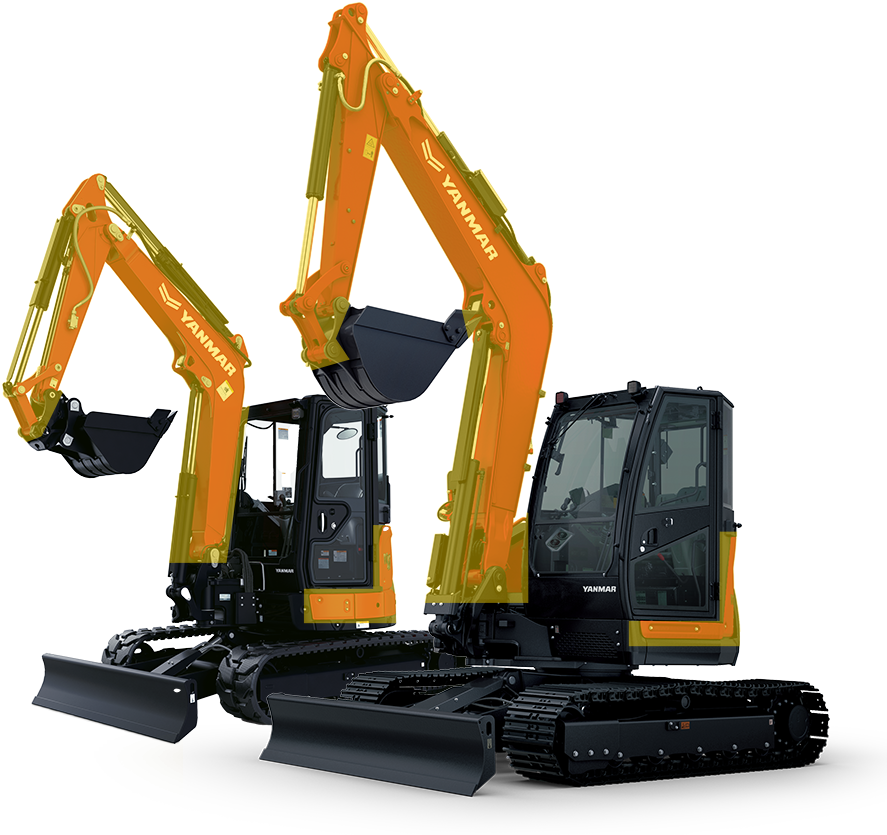
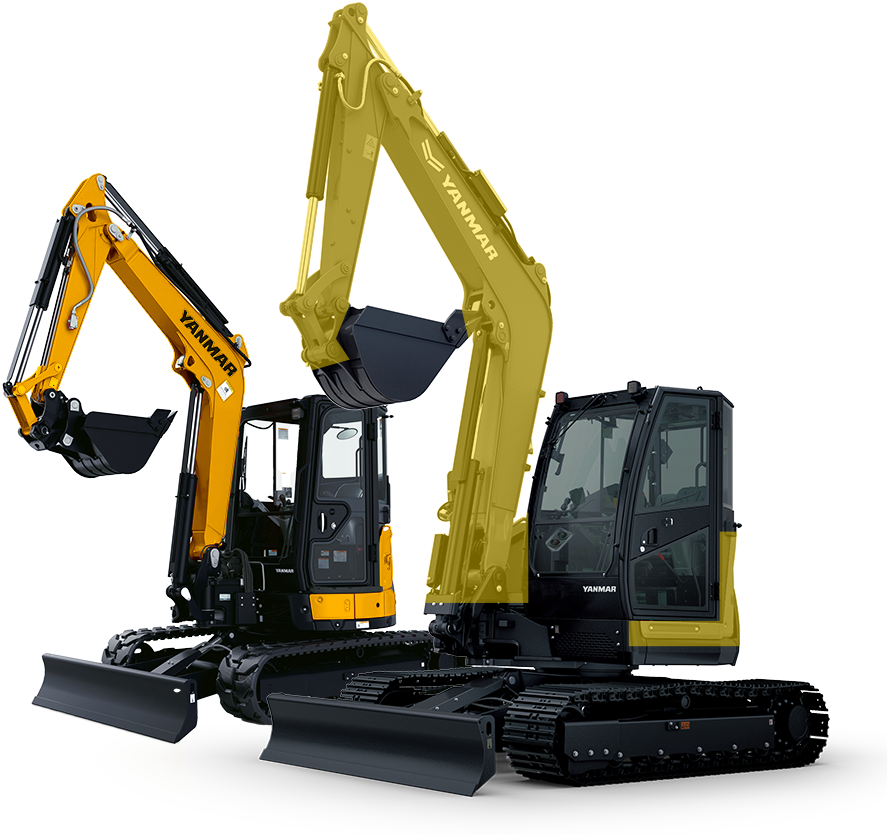
...

diff --git a/html/yanmarRED.html b/html/yanmarRED.html
@@ -291,8 +291,8 @@
 
 <!--CONTENT-START-->
 
-
-<img src="/images/yanmarRED/yanmarRED-header-desk.png" srcset="">
+<img src="/images/yanmarRED/yanmarRED-header-desk.png" srcset="/images/yanmarRED/yanmarRED-header-desk@2x.png 2x" alt="Yanmar is in our blood" class="d">
+<img src="/images/yanmarRED/yanmarRED-header-mob.png" srcset="/images/yanmarRED/yanmarRED-header-mob@2x.png 2x" alt="Yanmar is in our blood" class="m">
 
 
           
@@ -312,6 +312,7 @@
                 <p>As the local Yanmar distributor we are committed to understanding our customers business so we can give you the best advice on the right machine to suit your business. Across our TransDiesel sales and service team's we are passionate about knowing everything there is to know about each Yanmar machine.</p>
                     
                 <p>Some would say Yanmar is in our Blood.</p>
+                
 
                 <h4>The other thing that we are passionate about is helping locals.</h4>
 
@@ -338,7 +339,7 @@
                             background-color: #d20537;                     
                             color: #ffffff;
                             border-radius: 4px;
-                            margin-top: 30px;
+                            margin-top: 20px;
                             margin-left: 2vw;
                             margin-right: 4vw;
                         }
@@ -352,13 +353,25 @@
                         }
                         div.updates h1 {padding:0; margin:0; margin-bottom: 5px;}
                         div.updates h2 {padding:0; margin:0;}
+
                         div.gaugeVisual {
-                            margin-top: 20px;
+                            display: block;
+                            position: relative;
+                        }
+                        div.gaugeVisualYELLOW {
+                            display: block;
+                            position: absolute;
+                            top:0;
+                            height: 100%;
+                            width: 100%;
                         }
                     </style>
 
                     <div class="gaugeVisual">
-                        <img src="/images/yanmarRED/yanmarRED-base.png" alt="">
+                        <img src="/images/yanmarRED/yanmarRED-base.png">
+                        <div class="gaugeVisualYELLOW">
+                            <img src="/images/yanmarRED/yanmarRED-base.png">
+                        </div>
                     </div>
 
                     
